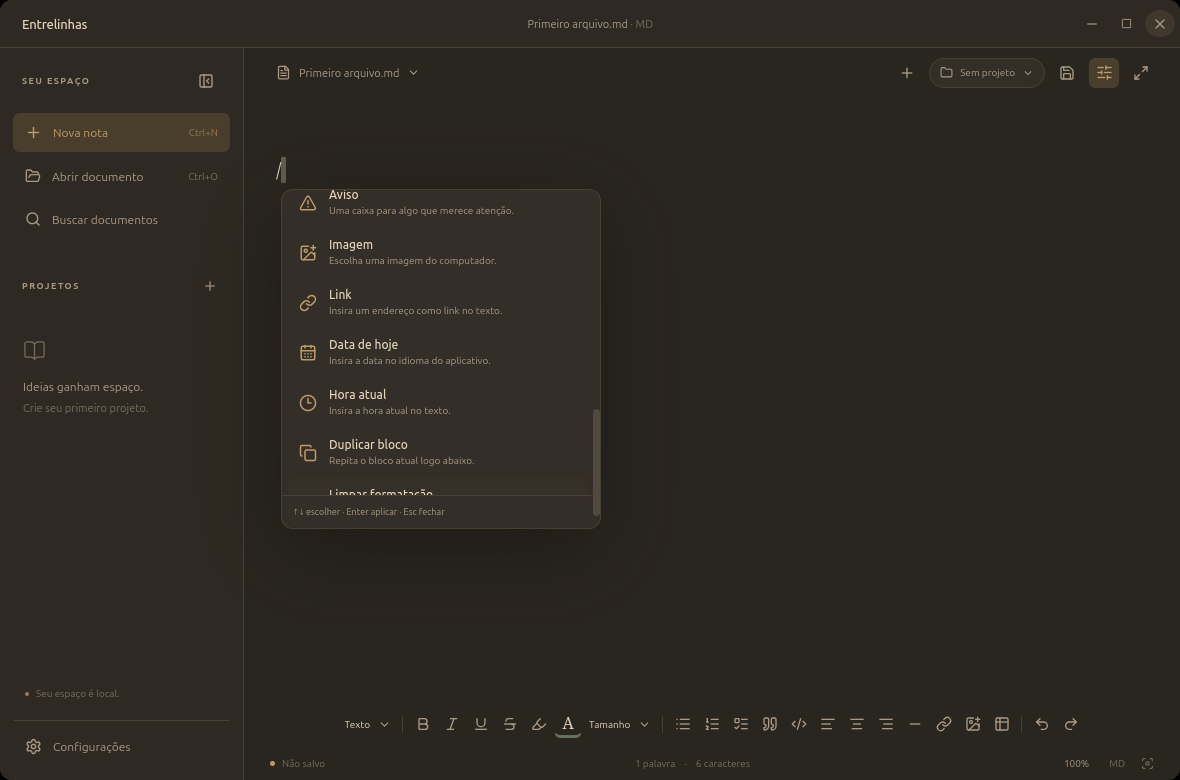
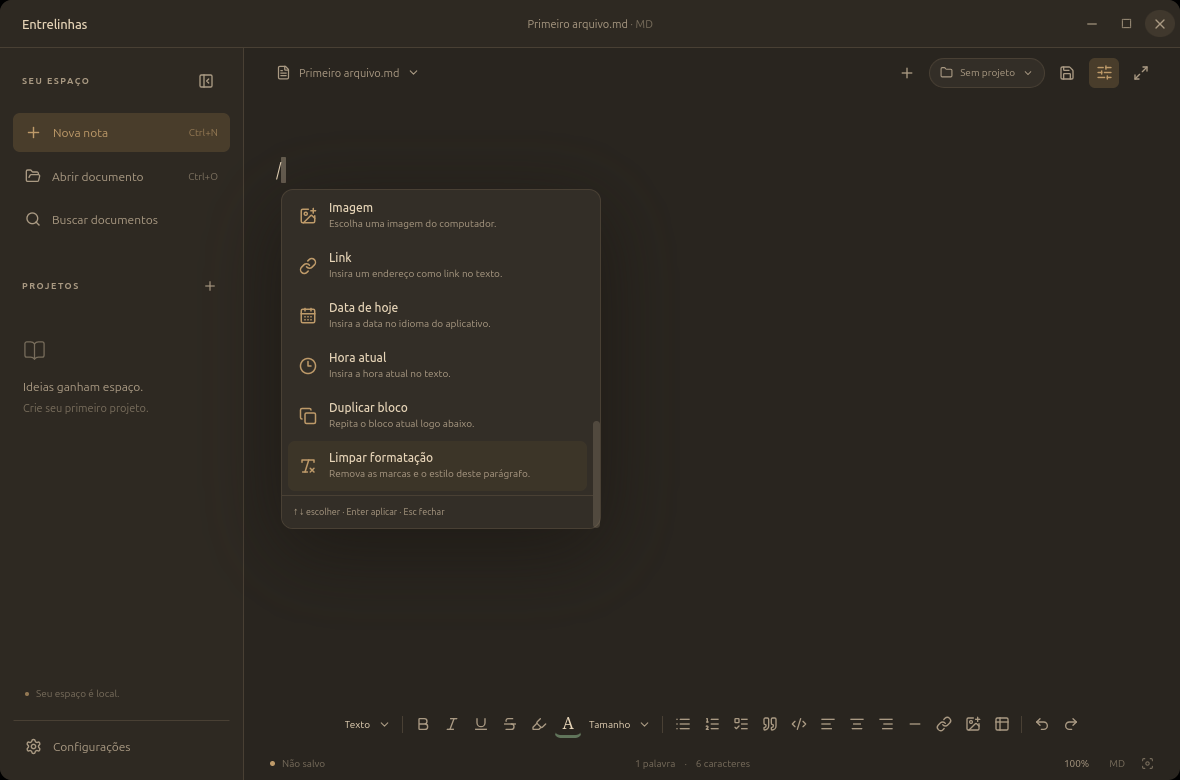
u79 - publicar a primeira prévia 2.3 para avaliação

Changed region(s): [[0.2441, 0.2462, 0.4271, 0.6154]]

diff --git a/README.md b/README.md
@@ -14,6 +14,8 @@ O Zen ganhou um recuo superior de 28 px e a barra lateral fica a 24 px das borda
 
 O menu `/` agora oferece **20 comandos**. Além dos onze da versão 2.2, inclui lista recolhível, caixa informativa, aviso, imagem, link, data de hoje, hora atual, duplicar bloco e limpar formatação. Todos têm nomes, descrições e buscas nos cinco idiomas. [Lista completa e exemplos](docs/slash-commands.md).
 
+Validação da rc.1: 162 testes TypeScript, 19 testes Rust Linux e 18 Windows; 48 verificações desktop Linux, 8 de atualização Linux e [30 Windows](https://github.com/Davi-Mascarenhas/entrelinhas/actions/runs/45060933045).
+
 [Zen com mais espaço](docs/screenshots/preview-2.3-zen.png) · [Blocos recolhíveis e caixas](docs/screenshots/preview-2.3-blocks.png) · [Lista completa no menu](docs/screenshots/preview-2.3-menu.png).
 
 ## Comandos de escrita e modo Zen (2.2 estável)
@@ -258,7 +260,7 @@ O mesmo roteiro pode validar a versão empacotada:
 python3 scripts/test-desktop.py --binary src-tauri/target/release/entrelinhas
 ```
 
-### Verificações realizadas
+### Verificações da versão 2.2 estável
 
 Os números abaixo descrevem a suíte Linux. A validação Windows tem relatório próprio nos artefatos da rotina Windows e na release estável.
 
